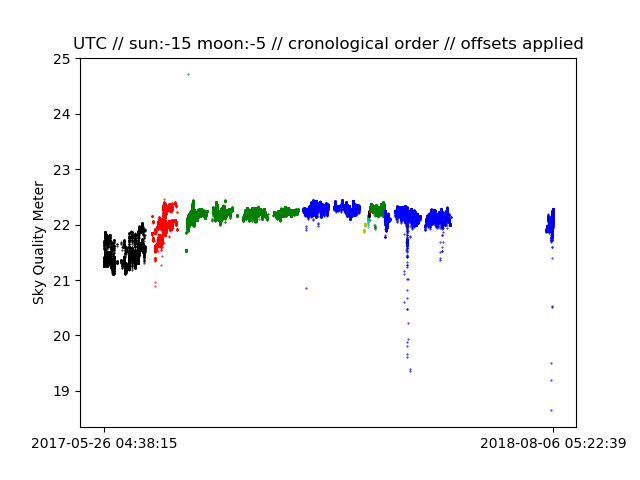
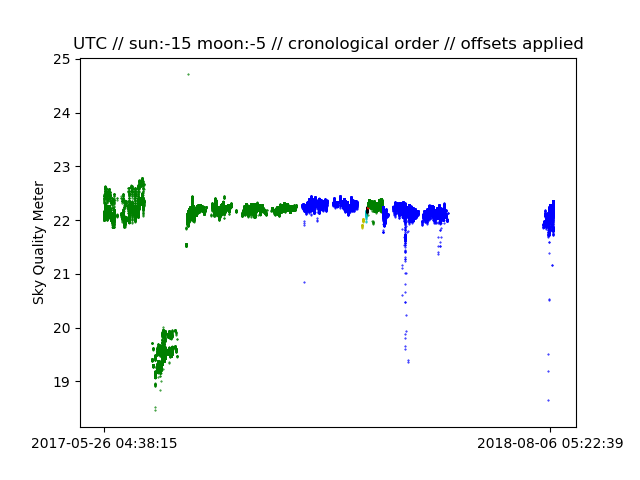
offsets_corr y offsets_sid casi terminados, pero aun hay un error en ambos.

diff --git a/offsets_corr.py b/offsets_corr.py
@@ -11,10 +11,8 @@ import datetime
 import pymysql.cursors
 import ephemerids
 from datetime import datetime
+import matplotlib.dates as mdates
 
-#colors = ['r', 'y', 'b', 'greenyellow', 'c', 'g', 'black']
-
-#binSize = 10080 # data points, one per minute, 10.080 a week
 [db_cursor, database] = WS.db_connect()
 search = "SELECT `UTC`, `sqm` FROM `weather` WHERE \
 `UTC` >= '2017-01-01 03:29:25' AND `UTC` <= '2018-12-01 01:08:24' AND \
@@ -24,12 +22,12 @@ search = "SELECT `UTC`, `sqm` FROM `weather` WHERE \
 db_cursor.execute(search)
 res = db_cursor.fetchall()
 print "From ", res[0], " to ", res[-1]
-y = []
-x = []
-offset = 0.7-3.2+2.09+0.32-0.28-0.11-0.19-0.29+0.28+0.34
-y2 = []
-x2 = []
-offset2 = 0.7+2.09+0.32-0.28-0.11-0.19-0.29+0.28+0.34
+# y = []
+# x = []
+# offset = 0.7-3.2+2.09+0.32-0.28-0.11-0.19-0.29+0.28+0.34
+# y2 = []
+# x2 = []
+# offset2 = 0.7+2.09+0.32-0.28-0.11-0.19-0.29+0.28+0.34
 y3 = []
 x3 = []
 offset3 = 0.35+0.32-0.28-0.11-0.19-0.29+0.28+0.34
@@ -56,14 +54,20 @@ y10 = []
 counter = 0
 for e in res:
     #print e[0]
-    time = datetime.strptime(e[0], '%Y-%m-%d %H:%M:%S')
-    if e[0] <= '2017-07-04 10:29:14':
-    	x.append(time)
-    	y.append(e[1] + offset)
-    elif e[0] <= '2017-08-05 10:17:15':
-        x2.append(time)
-    	y2.append(e[1] + offset2)
-    elif e[0] <= '2017-11-30 08:15:29':
+    date = datetime.strptime(e[0], '%Y-%m-%d %H:%M:%S')
+    if (date.hour-4)  >= 0 and (date.hour-4) < 12:
+        time = datetime(1900,1,2,(date.hour-4),date.minute,date.second,0)
+    elif (date.hour-4) < 0:
+        time = datetime(1900,1,1,24+(date.hour-4),date.minute,date.second,0)
+    else:
+        time = datetime(1900,1,1,(date.hour-4),date.minute,date.second,0)
+    # if e[0] <= '2017-07-04 10:29:14':
+    # 	x.append(time)
+    # 	y.append(e[1] + offset)
+    # elif e[0] <= '2017-08-05 10:17:15':
+    #     x2.append(time)
+    # 	y2.append(e[1] + offset2)
+    if e[0] <= '2017-11-30 08:15:29' and e[0] > '2017-08-05 10:17:15':
         x3.append(time)
     	y3.append(e[1] + offset3)
     elif e[0] <= '2018-01-29 08:54:35':
@@ -90,25 +94,25 @@ for e in res:
     counter += 1
 
 print "There are " + str(counter) + " data points."
-plt.scatter(x, y, 0.2, c='black', alpha=1, label='data point')
-plt.scatter(x2, y2, 0.2, c='r', alpha=1, label='data point')
-plt.scatter(x3, y3, 0.2, c='g', alpha=1, label='data point')
-plt.scatter(x4, y4, 0.2, c='b', alpha=1, label='data point')
-plt.scatter(x5, y5, 0.2, c='y', alpha=1, label='data point')
-plt.scatter(x6, y6, 0.2, c='c', alpha=1, label='data point')
-plt.scatter(x7, y7, 0.2, c='black', alpha=1, label='data point')
-plt.scatter(x8, y8, 0.2, c='r', alpha=1, label='data point')
-plt.scatter(x9, y9, 0.2, c='g', alpha=1, label='data point')
-plt.scatter(x10, y10, 0.2, c='b', alpha=1, label='data point')
+#plt.scatter(x, y, 0.2, c='black', alpha=1)
+#plt.scatter(x2, y2, 0.2, c='r', alpha=1)
+plt.scatter(x3, y3, 0.05, c='black', alpha=0.05)
+plt.scatter(x4, y4, 0.05, c='black', alpha=0.05)
+plt.scatter(x5, y5, 0.05, c='black', alpha=0.05)
+plt.scatter(x6, y6, 0.05, c='black', alpha=0.05)
+plt.scatter(x7, y7, 0.05, c='black', alpha=0.05)
+plt.scatter(x8, y8, 0.05, c='black', alpha=0.05)
+plt.scatter(x9, y9, 0.05, c='black', alpha=0.05)
+plt.scatter(x10, y10, 0.05, c='black', alpha=0.05)
 #plt.legend()
-plt.title('UTC // sun:-15 moon:-5 // cronological order // offsets applied')
+plt.title('UTC // sun:-15 moon:-5 // first months filtered // offsets applied')
 plt.ylabel('Sky Quality Meter')
-# ticks = [0, counter-1]
-# ticks_labels = ['%s' % (res[0][0]), '%s' % (res[-1][0])]
-time_start = datetime(2017,5,26,4,38,15)
-time_end = datetime(2018,8,6,5,22,39)
-ticks = [time_start, time_end]
-ticks_labels = [time_start, time_end]
-plt.xticks(ticks, ticks_labels)
-plt.savefig("offsets_corr2.png")
+time_start = datetime(1900,1,1,19,0,0,0)
+time_end = datetime(1900,1,2,6,59,59,999999)
+plt.xlim(time_start, time_end)
+plt.grid(True)
+plt.gcf().autofmt_xdate()
+myFmt = mdates.DateFormatter('%H:%M')
+plt.gca().xaxis.set_major_formatter(myFmt)
+plt.savefig("offsets_corr3.png")
 plt.show()

diff --git a/offsets_sid.py b/offsets_sid.py
@@ -11,10 +11,9 @@ import datetime
 import pymysql.cursors
 import ephemerids
 from datetime import datetime
+import matplotlib.dates as mdates
+myFmt = mdates.DateFormatter('%H%M')
 
-#colors = ['r', 'y', 'b', 'greenyellow', 'c', 'g', 'black']
-
-#binSize = 10080 # data points, one per minute, 10.080 a week
 [db_cursor, database] = WS.db_connect()
 search = "SELECT `UTC`, `sqm`, `SiderealTime` FROM `weather` WHERE \
 `UTC` > '2017-08-05 10:17:15' AND `UTC` <= '2018-12-01 01:08:24' AND \
@@ -54,7 +53,6 @@ offset9 = 0.34
 counter = 0
 for e in res:
     time = datetime.strptime(e[2], '%H:%M:%S.%f')
-    print time
     #print e[2][0:5]
     # if e[0] <= '2017-07-04 10:29:14':
     # 	x.append(time)
@@ -62,7 +60,7 @@ for e in res:
     # elif e[0] <= '2017-08-05 10:17:15':
     #     x2.append(time)
     # 	y2.append(e[1] + offset2)
-    if e[0] <= '2017-11-30 08:15:29':
+    if e[0] <= '2017-11-30 08:15:29' and e[0] > '2017-08-05 10:17:15':
         x3.append(time)
     	y3.append(e[1] + offset3)
     elif e[0] <= '2018-01-29 08:54:35':
@@ -86,24 +84,24 @@ for e in res:
     counter += 1
 
 print "There are " + str(counter) + " data points."
-# plt.scatter(x, y, 1, c='black', alpha=0.05, label='data point')
-# plt.scatter(x2, y2, 1, c='r', alpha=0.05, label='data point')
-plt.scatter(x3, y3, 1, c='black', alpha=0.05, label='data point')
-plt.scatter(x4, y4, 1, c='black', alpha=0.05, label='data point')
-plt.scatter(x5, y5, 1, c='black', alpha=0.05, label='data point')
-plt.scatter(x6, y6, 1, c='black', alpha=0.05, label='data point')
-plt.scatter(x7, y7, 1, c='black', alpha=0.05, label='data point')
-plt.scatter(x8, y8, 1, c='black', alpha=0.05, label='data point')
-plt.scatter(x9, y9, 1, c='black', alpha=0.05, label='data point')
-plt.legend()
+# plt.scatter(x, y, 1, c='black', alpha=0.05)
+# plt.scatter(x2, y2, 1, c='r', alpha=0.05)
+plt.scatter(x3, y3, 0.1, c='black', alpha=0.05)
+plt.scatter(x4, y4, 0.1, c='black', alpha=0.05)
+plt.scatter(x5, y5, 0.1, c='black', alpha=0.05)
+plt.scatter(x6, y6, 0.1, c='black', alpha=0.05)
+plt.scatter(x7, y7, 0.1, c='black', alpha=0.05)
+plt.scatter(x8, y8, 0.1, c='black', alpha=0.05)
+plt.scatter(x9, y9, 0.1, c='black', alpha=0.05)
+#plt.legend()
 plt.title('Sidereal time // sun:-15 moon:-5 // offsets applied')
 plt.ylabel('Sky Quality Meter')
-# ticks = ['00:00', '24:00']
-# ticks_labels = ['0hrs', '24hrs']
-time_start = datetime(1900,1,1,0,0,0)
-time_end = datetime(1900,1,1,23,59,59)
-ticks = [time_start, time_end]
-ticks_labels = [time_start, time_end]
-plt.xticks(ticks, ticks_labels)
+time_start = datetime(1900,1,1,0,0,0,0)
+time_end = datetime(1900,1,1,23,59,59,999999)
+plt.xlim(time_start, time_end)
+plt.grid(True)
+plt.gcf().autofmt_xdate()
+myFmt = mdates.DateFormatter('%H:%M')
+plt.gca().xaxis.set_major_formatter(myFmt)
 plt.savefig("offsets_sid.png")
 plt.show()
